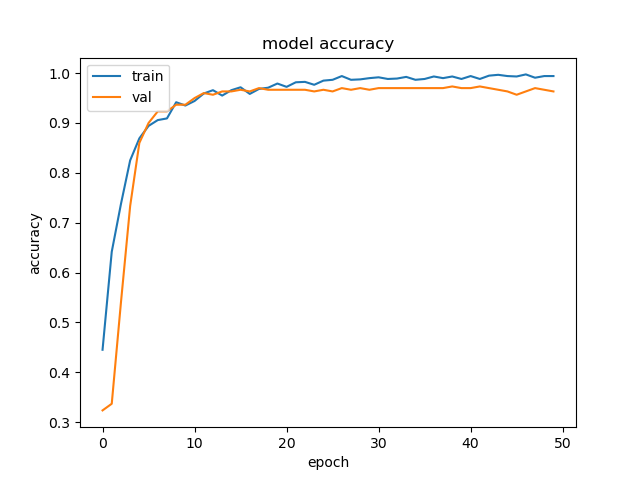
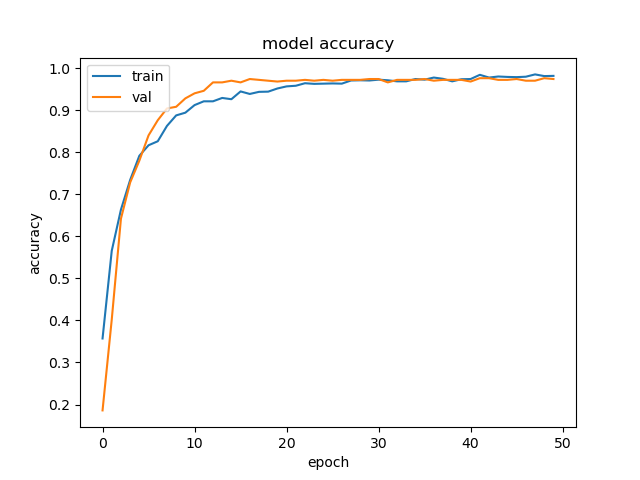
more classifications

diff --git a/image-recognize/data_process.py b/image-recognize/data_process.py
@@ -6,6 +6,8 @@ FOLDERP1 = ("positive_t1")
 FOLDERN1 = ("negative_t1")
 FOLDERP2 = ("positive_t2")
 FOLDERN2 = ("negative_t2")
+FOLDERP3 = ("positive_t3")
+FOLDERN3 = ("negative_t3")
 
 X_TRAIN = 'datasetMul/x_train.npy'
 Y_TRAIN = 'datasetMul/y_train.npy'
@@ -22,14 +24,35 @@ Y_TRAIN2 = 'dataset2/y_train.npy'
 X_TEST2 = 'dataset2/x_test.npy'
 Y_TEST2 = 'dataset2/y_test.npy'
 
+X_TRAIN3 = 'dataset3/x_train.npy'
+Y_TRAIN3 = 'dataset3/y_train.npy'
+X_TEST3 = 'dataset3/x_test.npy'
+Y_TEST3 = 'dataset3/y_test.npy'
+
 '''
-# train type-2
-CLASSES = 2
-folders = [FOLDERP2, FOLDERN2]
-process(folders, CLASSES, X_TRAIN2, X_TEST2, Y_TRAIN2, Y_TEST2)
+# train type-1
+CLASSES1 = 2
+folders1 = [FOLDERP1, FOLDERN1]
+process(folders1, CLASSES1, X_TRAIN1, X_TEST1, Y_TRAIN1, Y_TEST1)
 '''
 
+'''
+# train type-2
+CLASSES2 = 2
+folders2 = [FOLDERP2, FOLDERN2]
+process(folders, CLASSES2, X_TRAIN2, X_TEST2, Y_TRAIN2, Y_TEST2)
+'''
+'''
+# train type-3
+CLASSES3 = 2
+folders3 = [FOLDERP3, FOLDERN3]
+process(folders3, CLASSES3, X_TRAIN3, X_TEST3, Y_TRAIN3, Y_TEST3)
+'''
+
+
 # train all type
-CLASSES = 3
-folders = [FOLDERP1, FOLDERN1, FOLDERN2]
-process(folders, CLASSES, X_TRAIN, X_TEST, Y_TRAIN, Y_TEST)
+CLASSESA = 5
+foldersa = [FOLDERP1, FOLDERN1, FOLDERN2, FOLDERP3, FOLDERN3]
+process(foldersa, CLASSESA, X_TRAIN, X_TEST, Y_TRAIN, Y_TEST)
+
+

diff --git a/image-recognize/train.py b/image-recognize/train.py
@@ -12,9 +12,11 @@ Y_TEST = DATASET + 'y_test.npy'
 # visualization path
 TLOSS1 = 'visual/loss-type1.png'
 TLOSS2 = 'visual/loss-type2.png'
+TLOSS3 = 'visual/loss-type3.png'
 TLOSSA = 'visual/loss-alltype.png'
 TACC1 = 'visual/accuracy-type1.png'
 TACC2 = 'visual/accuracy-type2.png'
+TACC3 = 'visual/accuracy-type3.png'
 TACCA = 'visual/accuracy-alltype.png'
 # other parameters
 TLOSS = TLOSSA

diff --git a/image-recognize/model_set.py b/image-recognize/model_set.py
@@ -5,7 +5,7 @@ from keras.optimizers import Adam
 # hyperparameters & path
 MODELPATH = ('model/')
 SHAPE = (128, 128, 1)
-CLASSES = 3
+CLASSES = 5
 LR = 1e-5
 
 '''
